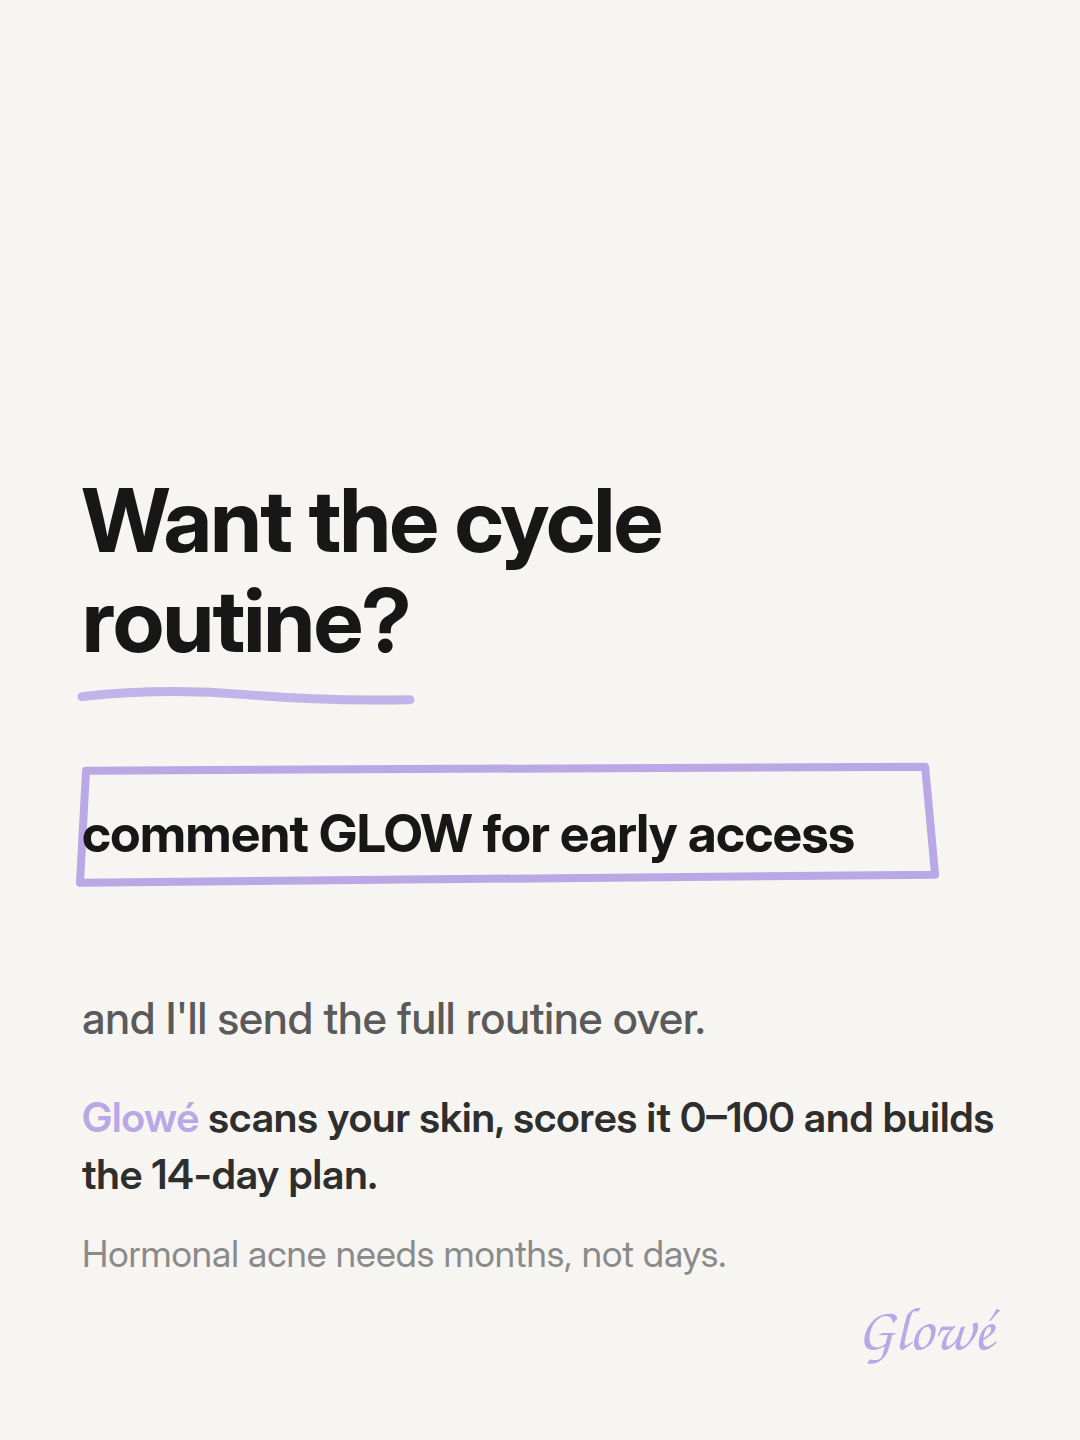
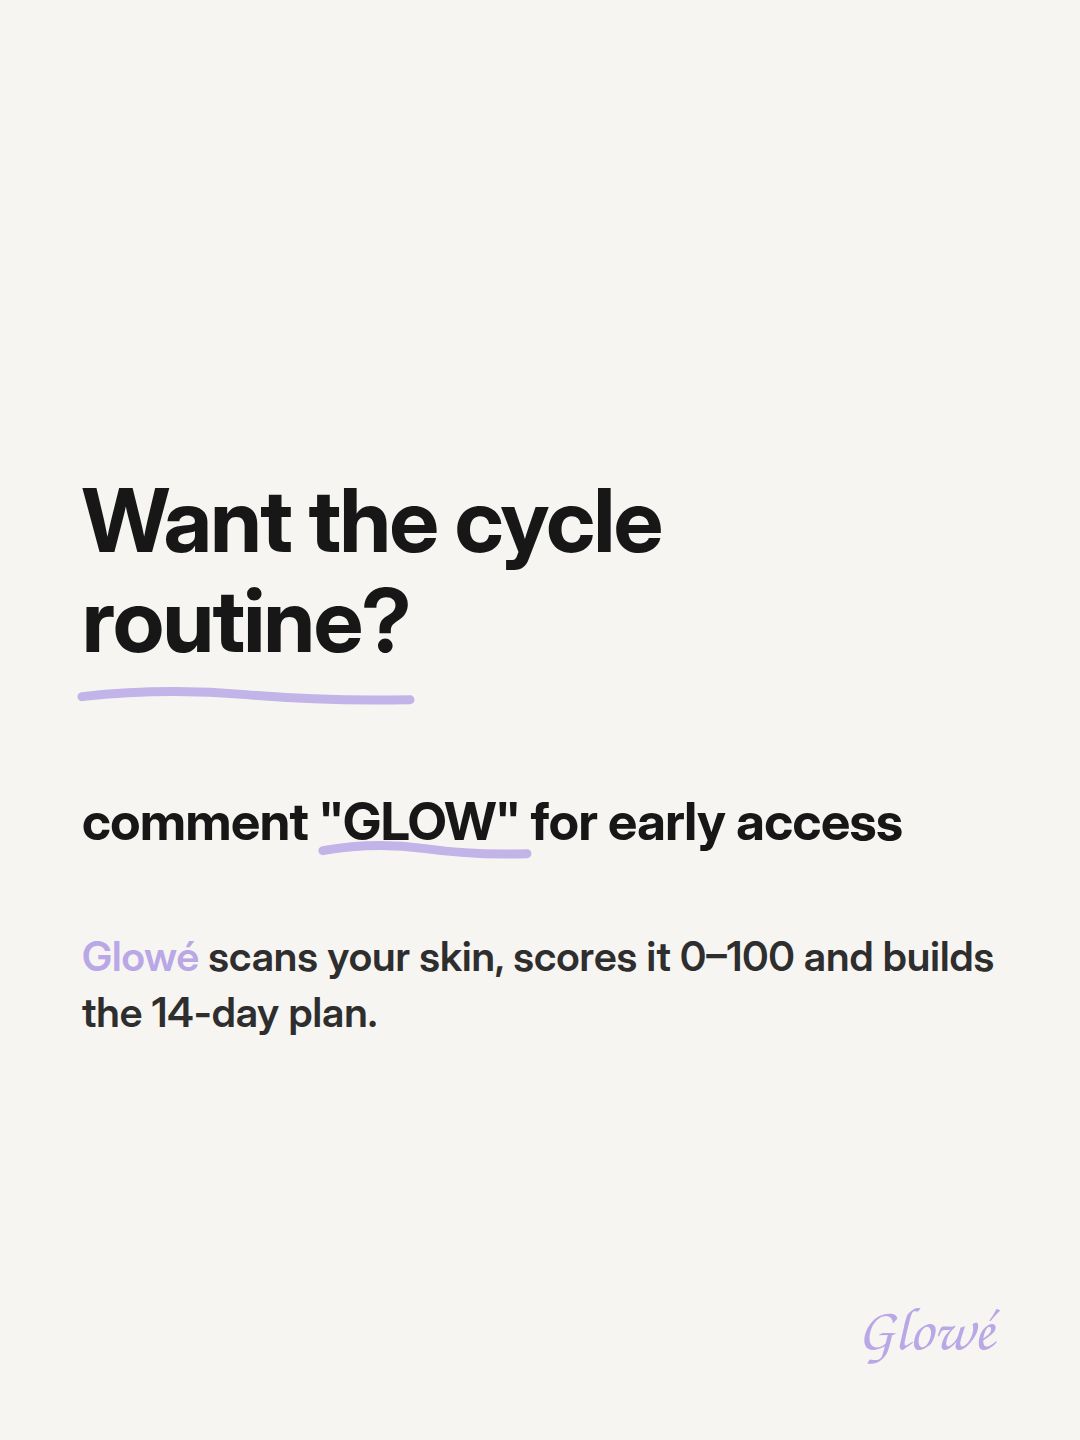
Mark the keyword instead of boxing the whole call to action
The closing slide framed the entire CTA line, which made it read as a button
in a layout that has no buttons anywhere else. Only the quoted keyword is
marked now: the underline starts and ends at "GLOW" itself, measured against
the real face so it tracks the word rather than the line.

The follow-up line and the caveat under it are gone. With the app line
carrying what early access means, they were repeating the promise a third
time on the slide that should close.

Drops hand_box, which nothing calls now.

Claude-Session: https://claude.ai/code/session_01EJfp6AtmKdfAEJn3yox12P

diff --git a/web/tiktok/render.py b/web/tiktok/render.py
@@ -1,6 +1,6 @@
 #!/usr/bin/env python3
 """Glowe Carousel Renderer v2 - bolder. JSON in, 5 PNG slides (1080x1440) out."""
-import base64, glob, html, io, json, math, os, subprocess, sys
+import base64, glob, html, io, json, math, os, re, subprocess, sys
 from PIL import Image, ImageFont
 
 # Assets liegen neben diesem Script, nicht relativ zum Aufrufort — damit
@@ -366,13 +366,6 @@ def hand_underline(x, y, w):
             f" stroke-width='9' stroke-linecap='round' opacity='.85'/>")
 
 
-def hand_box(x, y, w, h):
-    """Rahmen mit absichtlich ungenauen Ecken und offener Naht oben rechts."""
-    return (f"<path d='M {x+14} {y+4} L {x+w-10} {y} L {x+w} {y+h-8}"
-            f" L {x+8} {y+h} Z' fill='none' stroke='{LAV}' stroke-width='8'"
-            f" stroke-linecap='round' stroke-linejoin='round'/>")
-
-
 MARK_X = 82                      # linke Kante der Textspalte
 MARK_W = 1080 - 2 * MARK_X       # nutzbare Breite
 
@@ -423,26 +416,31 @@ def build_marker_cta(slide):
     size, lines, last_w = _marker_head(slide["headline"], budget=300)
     head = "<br>".join(html.escape(" ".join(l)) for l in lines)
     head_h = len(lines) * size * 1.14
-    cta = slide.get("pill", 'comment GLOW for early access')
-    f = ImageFont.truetype(SANS_BOLD, 52)
-    box_w = min(f.getlength(cta) + 76, MARK_W)
-    box_y = 470 + head_h + 96
+    cta = slide.get("pill", 'comment "GLOW" for early access')
+    CTA_SIZE, CTA_GAP = 52, 118
+    cta_top = 470 + head_h + CTA_GAP
+    f = ImageFont.truetype(SANS_BOLD, CTA_SIZE)
+
     # Dieselbe Unterstreichung wie auf den Schritt-Slides — sie ist das
     # Element, das die fuenf Slides als Satz zusammenhaelt.
-    ink = (hand_underline(MARK_X, 470 + head_h + 26, last_w)
-           + hand_box(MARK_X - 10, box_y, box_w, 116))
+    ink = hand_underline(MARK_X, 470 + head_h + 26, last_w)
+    # Statt eines Kastens um die ganze Zeile bekommt nur das Wort in
+    # Anfuehrungszeichen den Marker. Start und Breite werden an der echten
+    # Schrift gemessen, damit der Strich exakt unter dem Wort sitzt.
+    m = re.search(r'"[^"]+"', cta)
+    if m:
+        ink += hand_underline(MARK_X + f.getlength(cta[:m.start()]),
+                              cta_top + 62, f.getlength(m.group(0)))
+
     app = ""
     if slide.get("app"):
-        app = (f"<div class='app'>"
+        app = (f"<div class='app' style='margin-top:74px'>"
                f"{html.escape(slide['app']).replace('[', '<em>').replace(']', '</em>')}"
                f"</div>")
     inner = (f"<div class='wrap'>"
              f"<div class='head' style='font-size:{size}px'>{head}</div>"
-             f"<div class='cta' style='margin-top:{96 + 34}px'>{html.escape(cta)}</div>"
-             f"<div class='after' style='margin-top:{116 - 34 + 40}px'>"
-             f"{html.escape(slide.get('after_pill', ''))}</div>"
-             f"{app}"
-             f"<div class='note'>{html.escape(slide['line2'])}</div></div>")
+             f"<div class='cta' style='margin-top:{CTA_GAP}px'>{html.escape(cta)}</div>"
+             f"{app}</div>")
     return _marker_page(ink, inner)
 
 
